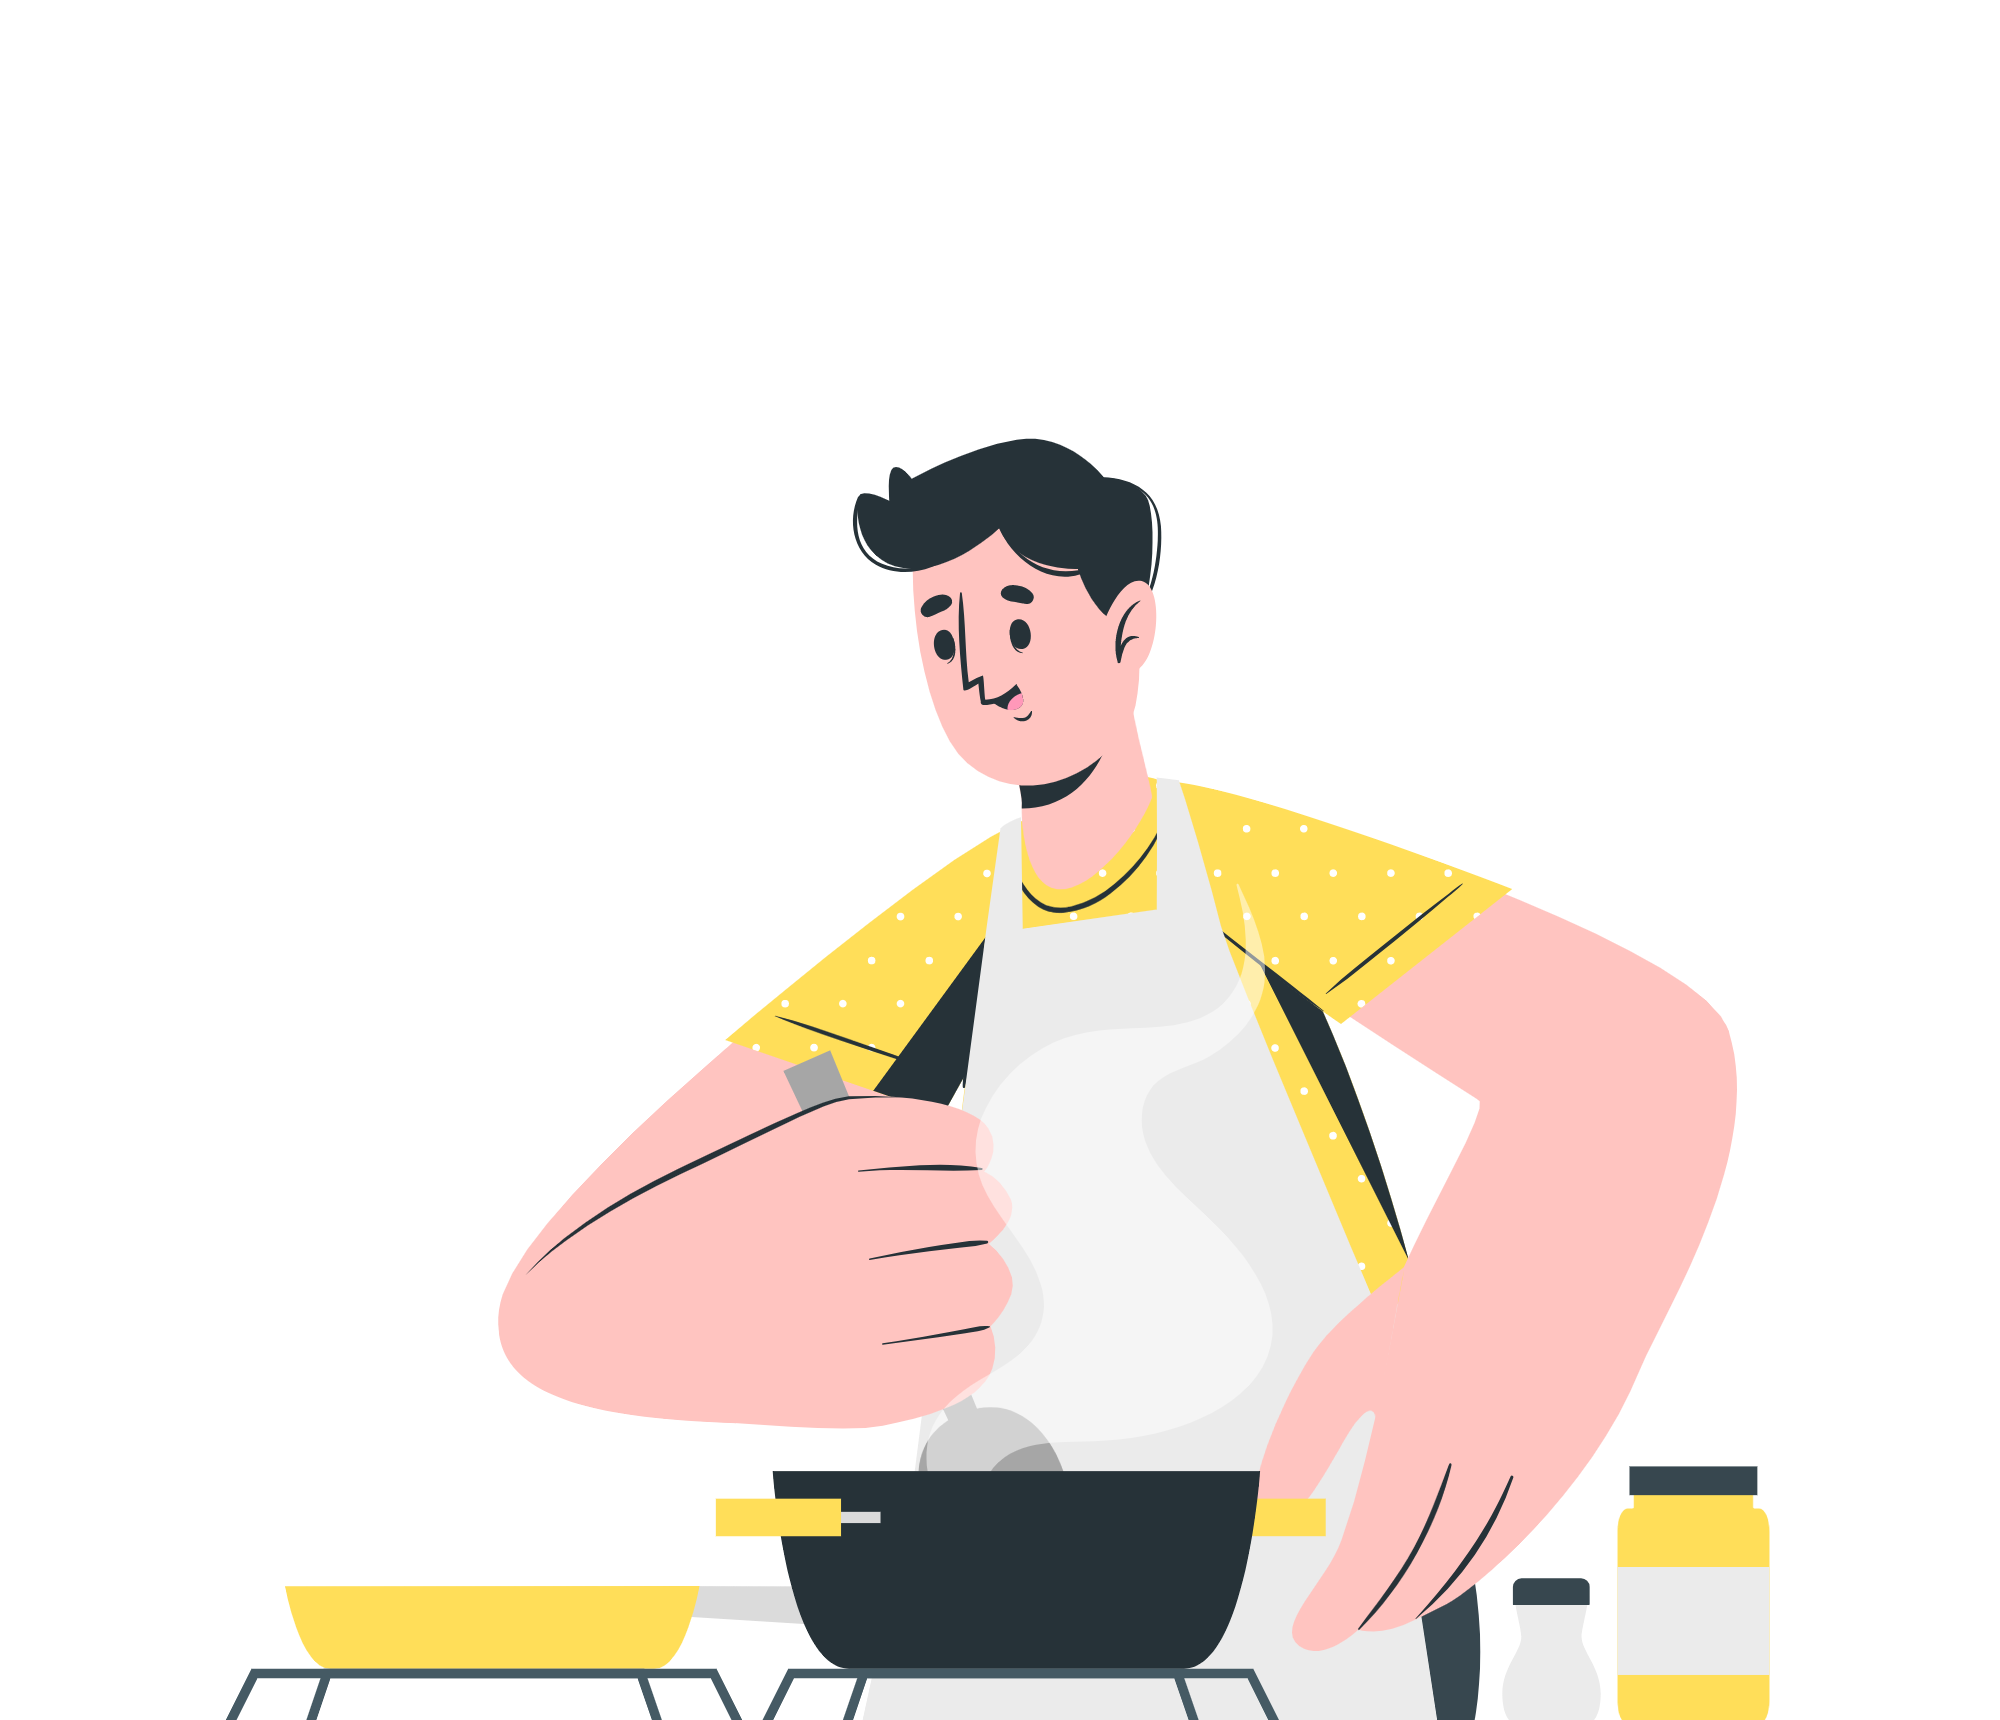
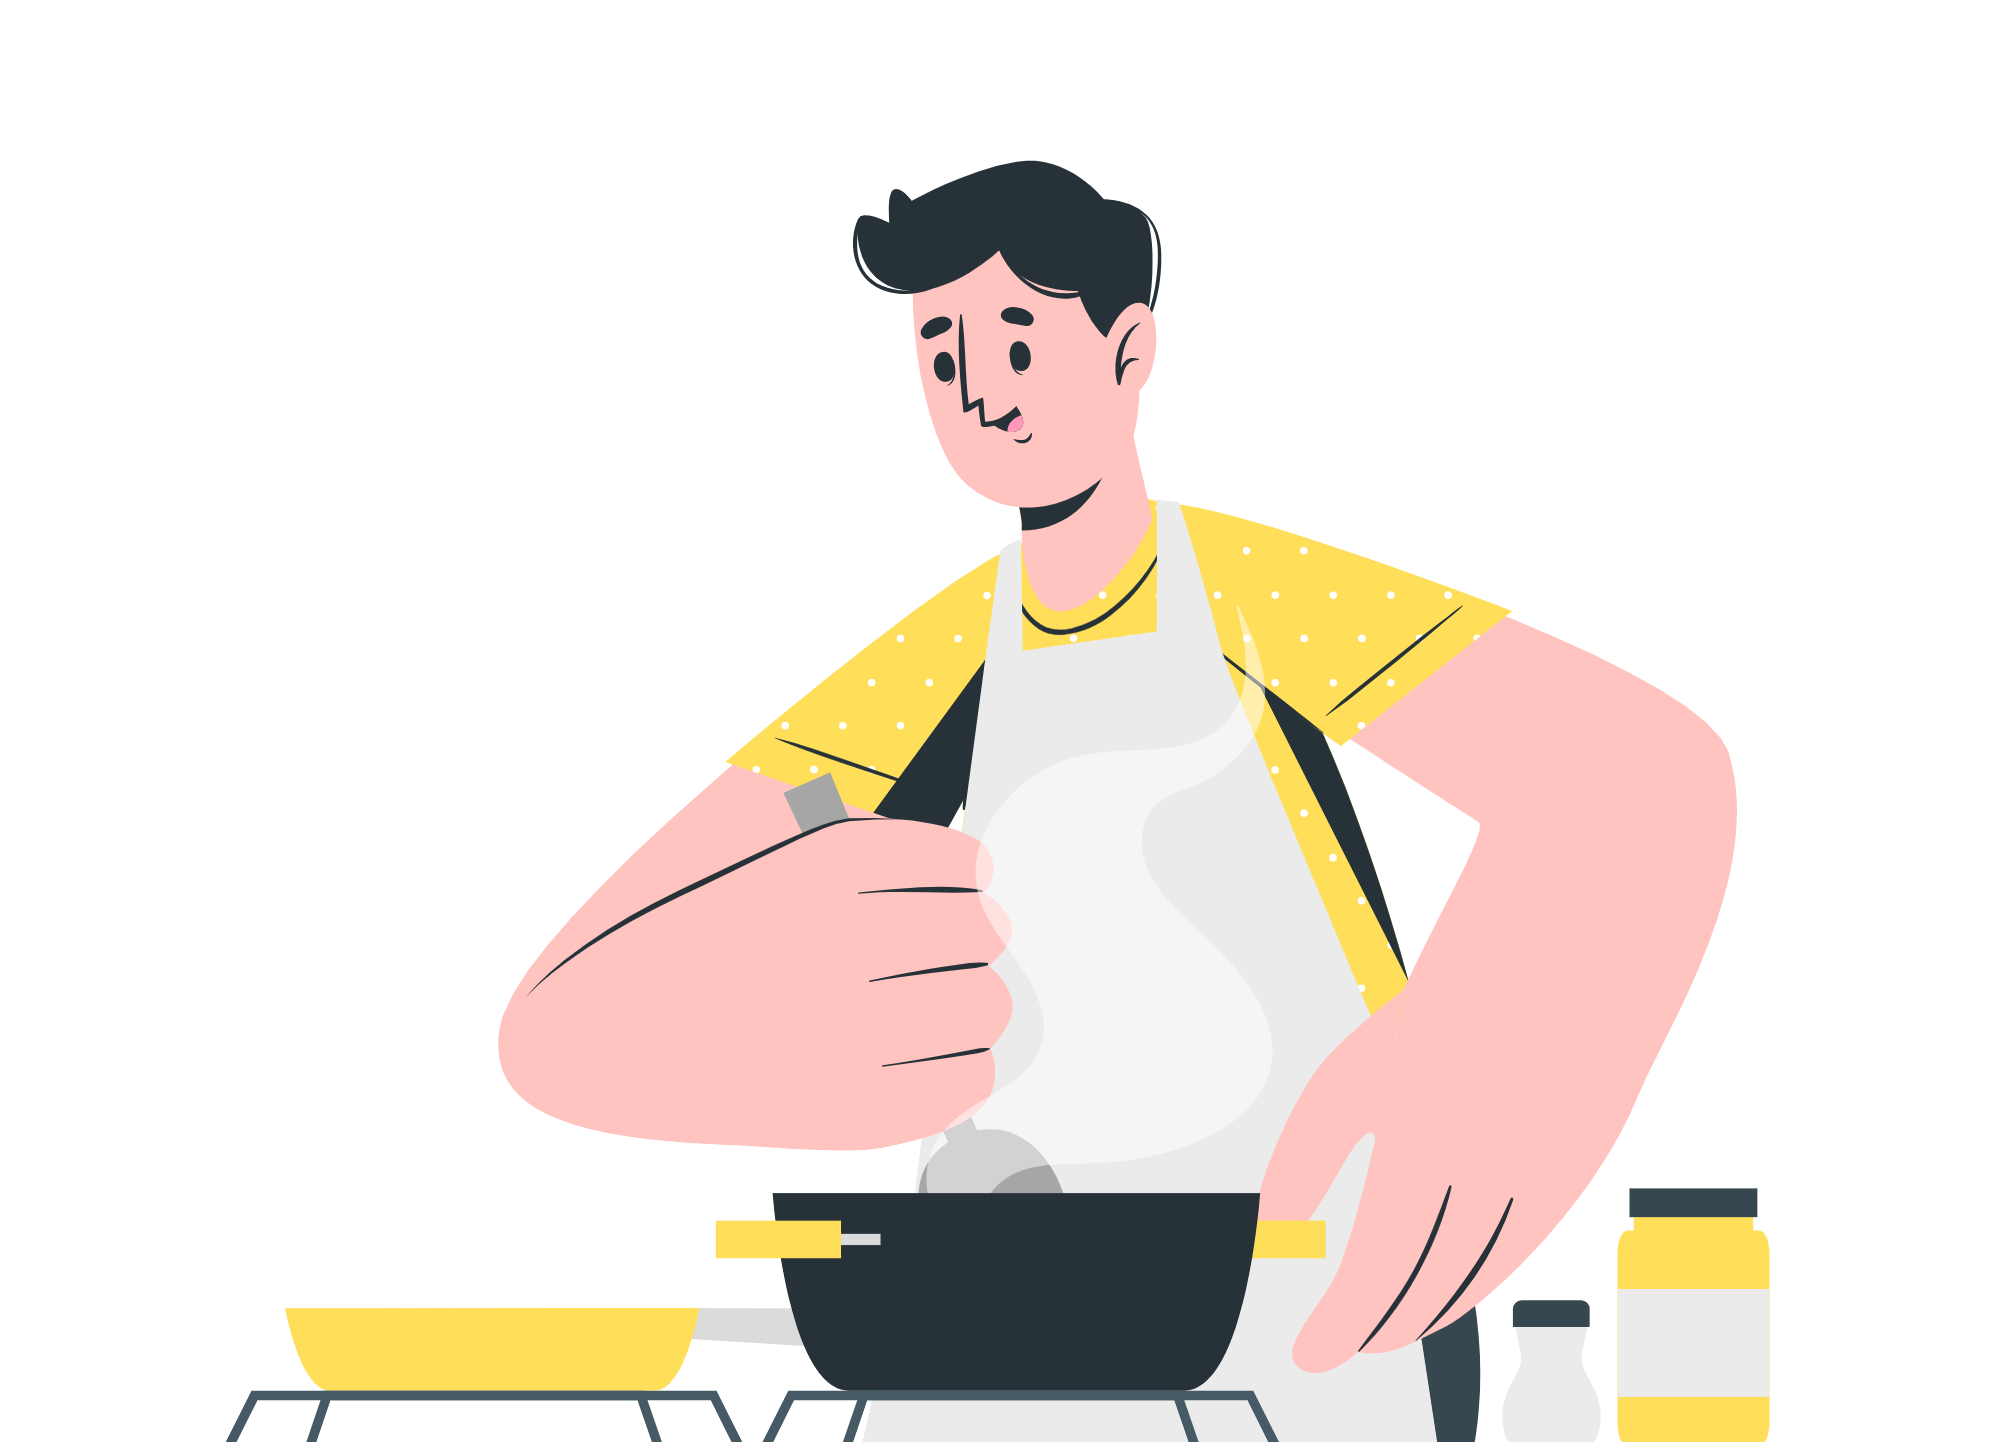
vista de recetas 100% full responsive lista pa conectar a bd

Changed region(s): [[0.124, 0.0936, 0.899, 0.9986], [0.806, 0.9674, 0.868, 0.9986]]

diff --git a/resources/js/Pages/Recetas.jsx b/resources/js/Pages/Recetas.jsx
@@ -4,6 +4,13 @@ import '/css/recetas.css';
 import Layout from '../layouts/Layout';
 import Grid from '@material-ui/core/Grid';
 import Container from '@material-ui/core/Container';
+import Icon from '@material-ui/core/Icon';
+import ArrowForwardIcon from '@material-ui/icons/ArrowForward';
+import Button from '@material-ui/core/Button';
+import Typography from '@material-ui/core/Typography';
+import Tooltip from '@material-ui/core/Tooltip';
+import Zoom from '@material-ui/core/Zoom';
+import Link from '@material-ui/core/Link';
 import LocalShippingOutlinedIcon from '@material-ui/icons/LocalShippingOutlined';
 import LockIcon from '@material-ui/icons/Lock';
 import LocalOfferIcon from '@material-ui/icons/LocalOffer';
@@ -11,23 +18,66 @@ import LocalOfferIcon from '@material-ui/icons/LocalOffer';
 const Recetas = () => {
     return (
         <>
+            {/* PORTADA */}
             <div className="Atma background-cover-img">
                 <div className="recetas_content" style={{"paddingBottom":"0px !important"}}> 
                     <Container> 
-                        <Grid container direction="row" justify="flex-start">
-                            <Grid container direction="row" justify="flex-start" item xs={8} spacing={2}>
+                        <Grid container direction="row" justify="flex-start" flexwrap="wrap">
+                            <Grid container direction="row" justify="flex-start" item xs={12} sm={8} spacing={1}>
                                 <Grid item xs={12} className="quienes_title padding-remove height-max">RECETAS</Grid>
-                                <Grid item xs={12} className="quienes_info padding-remove">
+                                <Grid item xs={12} className="quienes_info padding-remove recetas-portada-txt">
                                     Prepara los mejores platillos con nuestros productos 100% veganos y disfruta la experiencia de comer saludable y delicioso con comepasto
                                 </Grid>
                             </Grid>
-                            <Grid container item xs={4} direction="row" justify="flex-end">
+                            <Grid container item xs={12} sm={4} direction="row" justify="flex-end" color="primary">
                                 <img className="img_recetas" src="/img/ilustraciones/Cooking-cuate.png" alt="Illustration by Freepik Storyset" />
                             </Grid>
                         </Grid>
                     </Container>
                 </div>
             </div>
+            {/* CONTAINER DE RECETAs */}
+            <Container>
+                <Grid container direction="row" justify="flex-start" alignItems="stretch" style={{marginTop:30, marginBottom:50}} spacing={3}>
+                    <Grid item xs={12} sm={4}>
+                        <img className="receta-image" src="/img/imgs/img2.jpg" alt="Illustration by Freepik Storyset" />
+                        <Tooltip title="Burritos veganos y deliciosos" arrow TransitionComponent={Zoom} placement="top-start">
+                            <Link href="#!" style={{textDecoration:'none'}}><Typography item xs={12} className="receta-name" noWrap>Burritos veganos y deliciosos</Typography></Link>
+                        </Tooltip>
+                        {/* Maximo 100 caracteres de descripción, then ... */}
+                        <Grid item xs={12} className="receta-desc">Lorem ipsum dolor sit amet, consectetur adipiscing elit, sed eiusmod tempor incidunt ut labore et</Grid>
+                        <Link href="#!" style={{textDecoration:'none'}}>
+                            <Button size="large" className="button-receta" endIcon={<ArrowForwardIcon>send</ArrowForwardIcon>}>
+                                LEER MÁS
+                            </Button>
+                        </Link>
+                    </Grid>
+                    <Grid item xs={12} sm={4}>
+                        <img className="receta-image" src="/img/imgs/img10.jpg" alt="Illustration by Freepik Storyset" />
+                        <Tooltip title="Taquitos Crujientes y Jugosos de Soya" arrow TransitionComponent={Zoom} placement="top-start">
+                            <Link href="#!" style={{textDecoration:'none'}}><Typography item xs={12} className="receta-name" noWrap>Taquitos Crujientes y Jugosos de Soya</Typography></Link>
+                        </Tooltip>
+                        <Grid item xs={12} className="receta-desc">Lorem ipsum dolor sit amet, consectetur adipiscing elit, sed eiusmod tempor incidunt ut labore et</Grid>
+                        <Link href="#!" style={{textDecoration:'none'}}>
+                            <Button  size="large" className="button-receta" endIcon={<ArrowForwardIcon>send</ArrowForwardIcon>}>
+                                LEER MÁS
+                            </Button>
+                        </Link>
+                    </Grid>
+                    <Grid item xs={12} sm={4}>
+                        <img className="receta-image" src="/img/imgs/img1.jpg" alt="Illustration by Freepik Storyset" />
+                        <Tooltip title="Sopa de Tortilla con Queso Vegano muy poco Salado y cosas" arrow TransitionComponent={Zoom} placement="top-start">
+                            <Link href="#!" style={{textDecoration:'none'}}><Typography href="#" item xs={12} className="receta-name" noWrap>Sopa de Tortilla con Queso Vegano muy poco Salado y cosas</Typography></Link>
+                        </Tooltip>
+                        <Grid item xs={12} className="receta-desc">Lorem ipsum dolor sit amet, consectetur adipiscing elit, sed eiusmod tempor incidunt ut labore et</Grid>
+                        <Link href="#!" style={{textDecoration:'none'}}>
+                            <Button  size="large" className="button-receta" endIcon={<ArrowForwardIcon>send</ArrowForwardIcon>}>
+                                LEER MÁS
+                            </Button>
+                        </Link>
+                    </Grid>
+                </Grid>
+            </Container>
         </>
     )
 }

diff --git a/public/css/recetas.css b/public/css/recetas.css
@@ -12,7 +12,8 @@
     padding-top: 75px;
 }
 .img_recetas{
-    width: 65%;
+    width: 245px;
+    height: 240px; 
     object-fit: cover;
 }
 .padding-remove{
@@ -20,4 +21,65 @@
 }
 .height-max{
     height:max-content !important;
+}
+.recetas-portada-txt{
+    margin-bottom: 40px;
+    margin: right 5px;
+}
+.receta-image{
+    width:100%;
+    height:180px;
+    object-fit: cover;
+}
+.receta-name{
+    font-family: Oxygen !important;
+    font-style: normal !important;
+    font-weight: bold !important;
+    font-size: 18px !important;
+    line-height: 25px !important;
+    color: #474747 !important;
+}
+.receta-desc{
+    font-family: Oxygen !important;
+    font-style: normal !important;
+    font-weight: normal;
+    font-size: 15px;
+    line-height: 19px;
+    color: #7E7E7E;
+    margin-top:4px !important;
+    margin-bottom: 20px !important;
+}
+.button-receta{
+    font-family: Atma !important;
+    color: #9F9F9F !important;
+    font-style: normal !important;
+    font-weight: normal !important;
+    font-size: 13px !important;
+    line-height: 21px !important;
+    border: 1px solid #E3E3E3 !important;
+    box-sizing: border-box !important;
+    border-radius: 4px;
+    padding-left:30px !important;
+    padding-right:30px !important;
+    transition:all ease-in-out 0.25s !important;
+}
+.button-receta:hover{
+    background-color:#1DA3A8 !important;
+    color:white !important;
+    transition:all ease-in-out 0.25s !important;
+}
+
+
+
+
+
+
+@media(max-width:600px){
+    .img_recetas{
+        width: 185px;
+        height: 180px; 
+    }
+    .recetas-portada-txt{
+        margin-bottom: 0px;
+    }
 }
